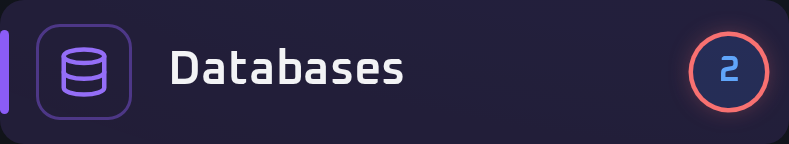
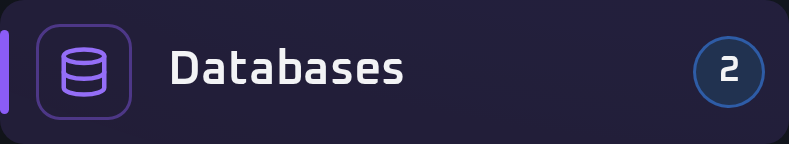
style(shell): move the nav counter onto an accent chip
Drop the red outline: a status color on an informational count reads as
an error, and the red also fought the per-destination accent of the
active row. The counter now rides the system accent instead — a tinted
chip (color-mix accent 12% over the surface) inside a 1px accent ring,
with the digit in full ink for maximum contrast on the dark canvas.

The active destination deepens the fill (26%) and the ring (52%) rather
than changing the digit color, and the alert tone keeps its warning fill
and ring instead of mixing severity signals.

Chosen after rendering four candidates (neutral chip, accent chip,
accent ring, filled); size and type are unchanged from the previous
commit.

Changed region(s): [[0.8517, 0.1944, 0.9734, 0.8056]]

diff --git a/src/TerraScale.Dashboard/wwwroot/css/terrascale.css b/src/TerraScale.Dashboard/wwwroot/css/terrascale.css
@@ -1896,7 +1896,8 @@ single-selector rules may stay on one line.
   }
 
   /* Nav counter: one step up from the generic badge (--ts-badge-h) so the
-   * digit reads at a glance. */
+   * digit reads at a glance. It rides the system accent — never a status
+   * color — so the same count reads the same way on every destination. */
   .ts-nav-count {
     position: absolute;
     right: var(--ts-sm);
@@ -1909,31 +1910,27 @@ single-selector rules may stay on one line.
     min-width: calc(var(--ts-badge-h) + 4px);
     padding: 0 var(--ts-gap-tight);
     border-radius: var(--ts-radius-pill);
+    border: 1px solid color-mix(in oklab, var(--ts-accent) 32%, transparent);
+    color: var(--ts-ink);
     font-size: var(--ts-fs-meta);
     font-weight: var(--ts-fw-semibold);
     line-height: 1;
   }
 
   .ts-nav-count-neutral {
-    background-color: var(--ts-surface-muted);
-    color: var(--ts-ink);
+    background-color: color-mix(in oklab, var(--ts-accent) 12%, var(--ts-surface));
   }
 
+  /* The active destination steps the counter up a notch: deeper fill and a
+   * stronger ring, while the digit keeps full ink contrast. */
   .ts-nav-count-active {
-    background-color: color-mix(in oklab, var(--ts-accent) 15%, transparent);
-    color: var(--ts-info);
+    border-color: color-mix(in oklab, var(--ts-accent) 52%, transparent);
+    background-color: color-mix(in oklab, var(--ts-accent) 26%, var(--ts-surface));
   }
 
-  /* Outline ring on the counter. It covers the two informational tones only:
-   * the alert tone keeps its own warning semantics. */
-  .ts-nav-count-neutral,
-  .ts-nav-count-active {
-    box-shadow:
-    0 0 0 1.5px var(--ts-danger),
-    0 0 8px color-mix(in oklab, var(--ts-danger) 38%, transparent);
-  }
-
+  /* Warning counts stay on warning semantics, ring included. */
   .ts-nav-count-alert {
+    border-color: color-mix(in oklab, var(--ts-warning) 55%, transparent);
     background-color: var(--ts-warning);
     color: var(--ts-on-warning);
   }
